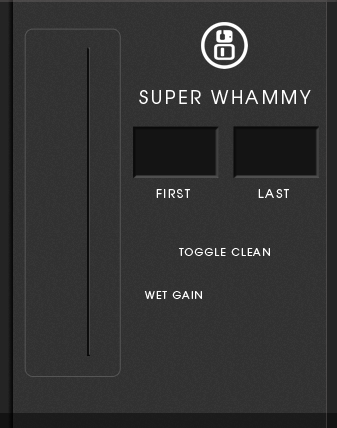
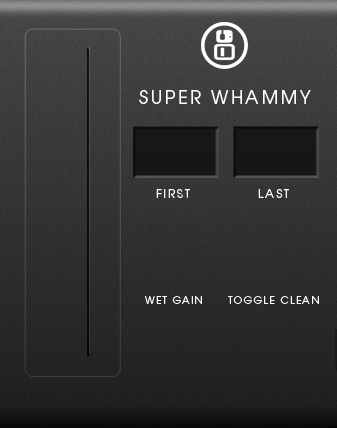
SuperWhammy: new background, new layout

diff --git a/SuperWhammy/ttl/modgui/css-super-whammy.css b/SuperWhammy/ttl/modgui/css-super-whammy.css
@@ -14,15 +14,20 @@
         position:absolute;
         right:0;
         top:0;
+        z-index: 0;
     }
     .mod-swhammy .mod-control-group-1 {
-        margin: 3em 0 0 30px;
-        width: 90px;
-        height: 300px;
-        float: left;
+        position: absolute;
+        z-index: 2;
+        top: 43px;
+        left: 36px;
     }
     .mod-swhammy .mod-control-group-2 {
-        margin: 9.6em 0 0 126px;
+        position: absolute;
+        z-index: 2;
+        top: 136px;
+        left: 132px;
+        width: 200px;
     }
     .mod-swhammy .mod-control-group-1 .mod-slider {
         position: absolute;
@@ -32,9 +37,9 @@
     }
     .mod-swhammy .mod-knob {
         position: absolute;
-        bottom: 50px;
-        margin-left: 20px;
-        z-index: 100;
+        top: 225px;
+        left: 143px;
+        z-index: 2;
         cursor: pointer;
     }
     .mod-swhammy .mod-knob-image {
@@ -45,7 +50,8 @@
     .mod-swhammy .mod-control-group-2 .mod-slider {
         z-index: 100;
         width: 87px;
-        margin-right: 10px;
+        margin-right: 13px;
+        float: left;
     }
     .mod-swhammy .mod-control-group-1 .mod-slider .mod-slider-image {
         background: url(/resources/slider-whammy.png{{{ns}}}) no-repeat;
@@ -63,18 +69,13 @@
         width: 30px;
         height: 73px;
         position: absolute;
-        margin: 45px 85px;
-        z-index: 1000;
+        top: 210px;
+        left: 260px;
+        z-index: 2;
         cursor: pointer;
     }
     .mod-swhammy .toggle.off {
         background-position: center bottom
-    }
-    .on-off {
-        position: absolute;
-        bottom: 45px;
-        right: 40px;
-        z-index: 100
     }
     .mod-swhammy .mod-footswitch {
         background-image:url(/resources/footswitch.png{{{ns}}});
@@ -84,8 +85,10 @@
         cursor:pointer;
         height:66px;
         width: 66px;
-        margin: auto;
-        z-index: 100;
+        position: absolute;
+        bottom: 25px;
+        left: 142px;
+        z-index: 2;
     }
     .mod-swhammy .mod-footswitch.on {
         background-position-y: top !important
@@ -93,9 +96,10 @@
     .mod-swhammy .mod-light {
         height: 32px;
         width: 32px;
-        margin: auto;
-        right: 0;
-        left: 0;
+        position: absolute;
+        bottom: 45px;
+        left: 260px;
+        z-index: 2;
     }
     .mod-swhammy .mod-light.off {
       background-image:url(/resources/red-light-off.png{{{ns}}});

diff --git a/SuperWhammy/ttl/modgui/icon-super-whammy.html b/SuperWhammy/ttl/modgui/icon-super-whammy.html
@@ -12,15 +12,13 @@
         <div class="mod-slider digi">
             <div class="mod-slider-image" mod-role="input-control-port" mod-port-symbol="Last"></div>
         </div>
-        <div class="toggle active" mod-role="input-control-port" mod-port-symbol="Clean" mod-widget="switch">
     </div>
+    <div class="toggle active" mod-role="input-control-port" mod-port-symbol="Clean" mod-widget="switch"></div>
     <div class="mod-knob">
         <div class="mod-knob-image" mod-role="input-control-port" mod-port-symbol="Gain"></div>
     </div>
-    <div class="on-off">
-        <div class="mod-light on" mod-role="bypass-light"></div>
-        <div class="mod-footswitch" mod-role="bypass"></div>  
-    </div>
+    <div class="mod-light on" mod-role="bypass-light"></div>
+    <div class="mod-footswitch" mod-role="bypass"></div>  
     <div class="mod-pedal-input">
         {{#effect.ports.audio.input}}
         <div class="mod-input mod-input-disconnected" title="{{name}}" mod-role="input-audio-port" mod-port-symbol="{{symbol}}">
